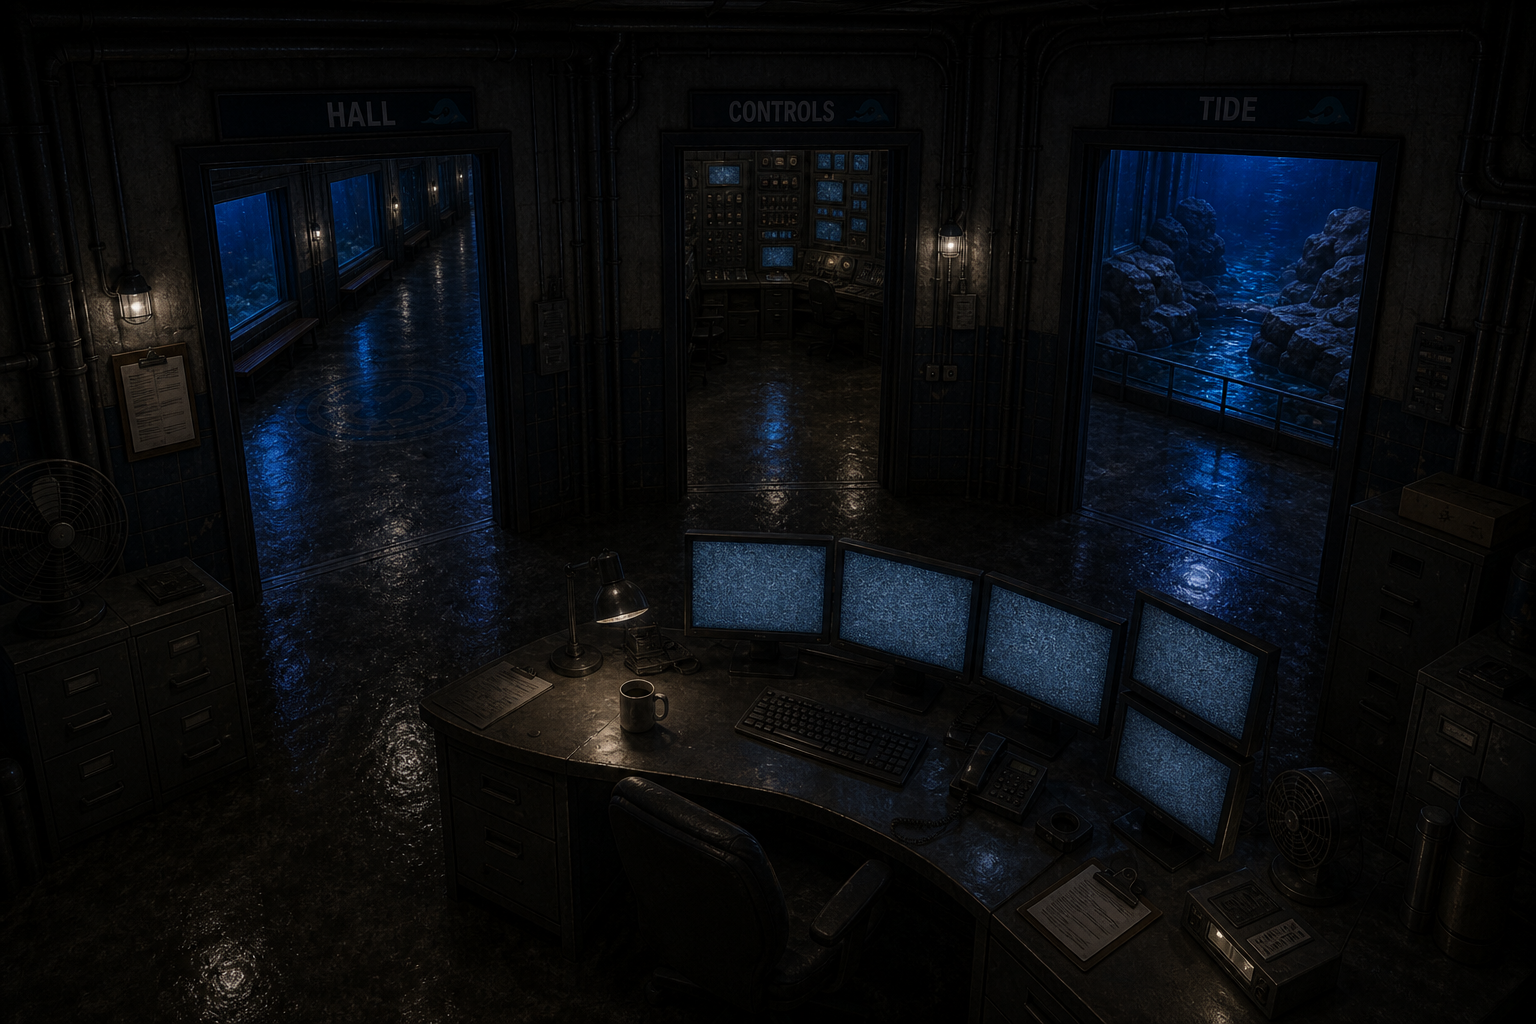
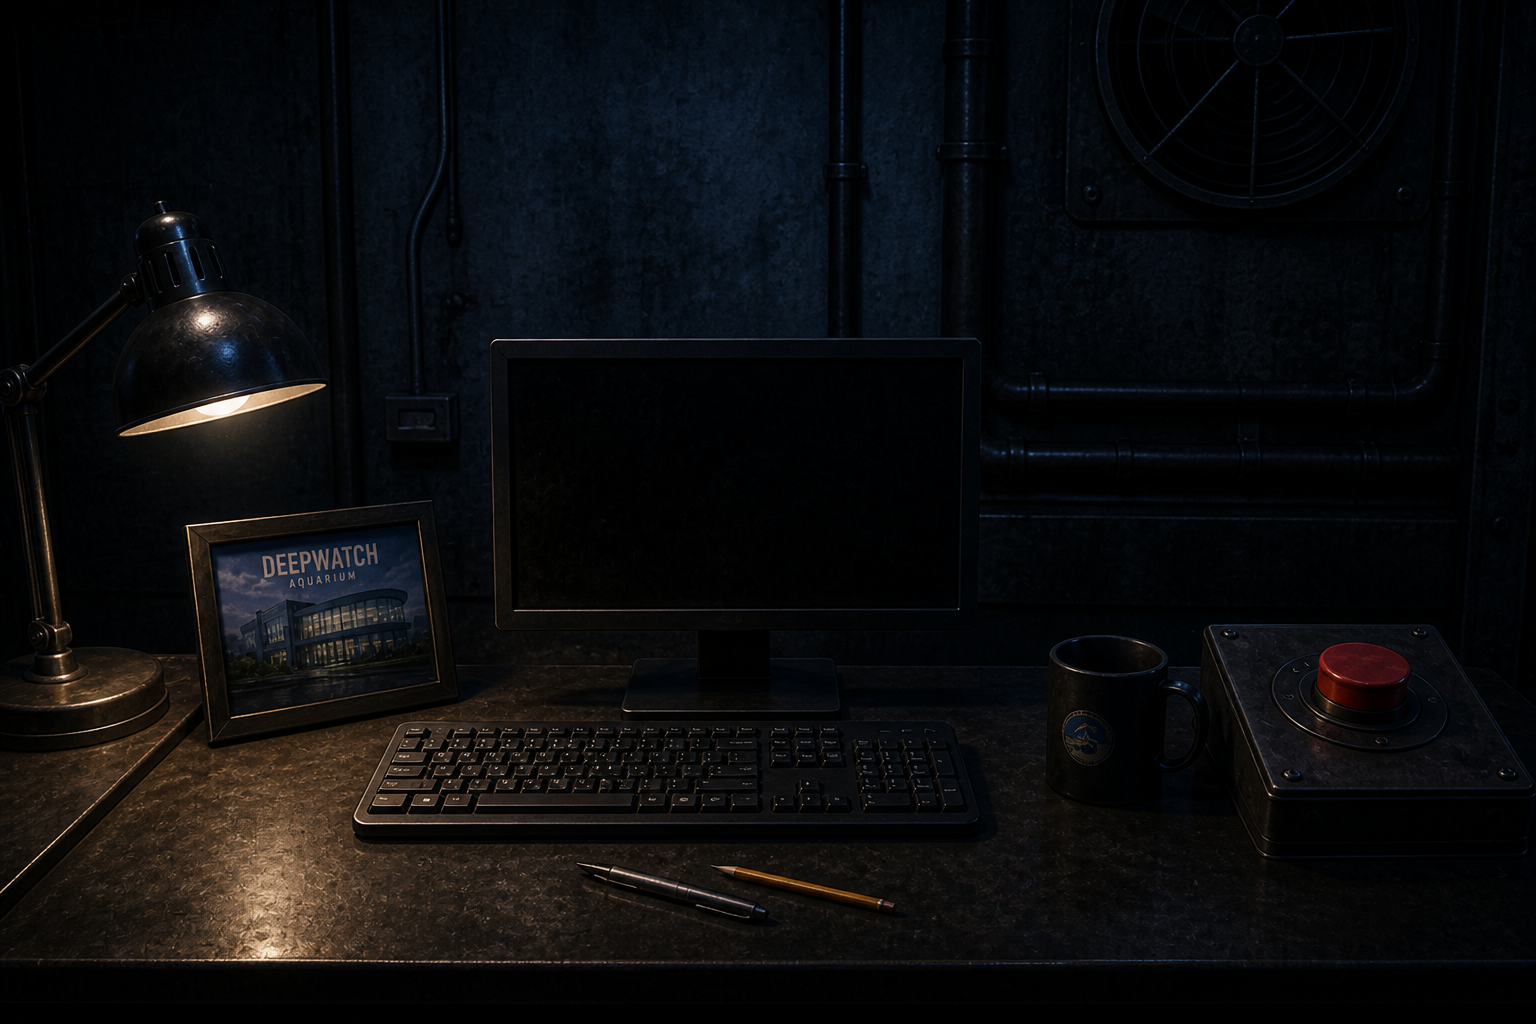
Update office art to FNaF desk view and simplify sound UI.
Replace the office camera image with a first-person desk scene and show only “Playing sound” on the lure button during cooldown.

diff --git a/game.js b/game.js
@@ -7,7 +7,7 @@ const SCREEN_WIDTH = 1000;
 const SCREEN_HEIGHT = 600;
 
 // bump this when you ship an update (matches game.js?v= in index.html)
-const GAME_VERSION = 17;
+const GAME_VERSION = 19;
 
 const TURTLE_MOVE_TIME = 20.0;
 const SHARK_MOVE_TIME = 20.0;
@@ -26,7 +26,9 @@ const NEWSPAPER_SECONDS = 3.0;
 const TWELVE_AM_SECONDS = 2.0;
 // threat in office while you're on cams — animals mess with the controls
 const CAMERA_HIJACK_SECONDS = 20.0;
-const HIJACK_CAM_SWITCH_SECONDS = 3.0;
+// after you pick a cam, hijack waits this long then flips to a random one
+const HIJACK_CAM_SWITCH_MIN = 0.8;
+const HIJACK_CAM_SWITCH_MAX = 2.8;
 const JUMPSCARE_SECONDS = 2.2;
 const NEWSPAPER_TILT = -5;
 const PAPER_GRAY = [228, 226, 220];
@@ -606,6 +608,13 @@ function pickRandomCamera(excludeIndex) {
   return next;
 }
 
+function randomHijackCamDelay() {
+  return (
+    HIJACK_CAM_SWITCH_MIN +
+    Math.random() * (HIJACK_CAM_SWITCH_MAX - HIJACK_CAM_SWITCH_MIN)
+  );
+}
+
 /** Loud FNaF-style scream using Web Audio (no sound file needed). */
 function playJumpscareScream() {
   try {
@@ -1124,8 +1133,8 @@ async function main() {
     if (camerasOpen) {
       mode = "camera_hijack";
       hijackTimer = 0;
-      hijackCamTimer = HIJACK_CAM_SWITCH_SECONDS;
-      currentCam = pickRandomCamera(-1);
+      // keep the cam you're on; shortly flip to a random one
+      hijackCamTimer = randomHijackCamDelay();
     } else {
       startJumpscare();
     }
@@ -1171,17 +1180,13 @@ async function main() {
       if (pointInButton(playAgainButton, mx, my)) {
         mode = "instructions";
       }
-    } else if (mode === "camera_hijack") {
-      const clicked = mapClickToCamera(mx, my, mapRect);
-      if (clicked !== null) {
-        currentCam = pickRandomCamera(clicked);
-        hijackCamTimer = HIJACK_CAM_SWITCH_SECONDS;
+    } else if (mode === "camera_hijack" || (mode === "playing" && camerasOpen)) {
+      if (pointInButton(closeCamsButton, mx, my)) {
+        if (mode === "camera_hijack") startJumpscare();
+        else camerasOpen = false;
       }
-    } else if (mode === "playing") {
-      if (camerasOpen) {
-        if (pointInButton(closeCamsButton, mx, my)) camerasOpen = false;
-        if (pointInButton(mapModeButton, mx, my)) showDrainMap = !showDrainMap;
-        if (pointInButton(soundButton, mx, my) && soundCooldown <= 0) {
+      if (pointInButton(mapModeButton, mx, my)) showDrainMap = !showDrainMap;
+      if (pointInButton(soundButton, mx, my) && soundCooldown <= 0) {
           const target = cameraToRoomName(currentCam);
           let anyoneReacted = false;
           if (target !== null) {
@@ -1275,12 +1280,17 @@ async function main() {
           }
           soundCooldown = SOUND_COOLDOWN;
         }
-        const clicked = mapClickToCamera(mx, my, mapRect);
-        if (clicked !== null) currentCam = clicked;
-      } else {
-        if (pointInButton(drainButton, mx, my)) drainClosed = !drainClosed;
-        if (pointInButton(openCamsButton, mx, my)) camerasOpen = true;
+      const clicked = mapClickToCamera(mx, my, mapRect);
+      if (clicked !== null) {
+        currentCam = clicked;
+        // during hijack: you get the cam you picked, then it flips randomly soon
+        if (mode === "camera_hijack") {
+          hijackCamTimer = randomHijackCamDelay();
+        }
       }
+    } else if (mode === "playing") {
+      if (pointInButton(drainButton, mx, my)) drainClosed = !drainClosed;
+      if (pointInButton(openCamsButton, mx, my)) camerasOpen = true;
     }
   });
 
@@ -1417,10 +1427,15 @@ async function main() {
 
     if (mode === "camera_hijack") {
       hijackTimer += dt;
+      if (glitchTimer > 0) glitchTimer -= dt;
+      if (soundCooldown > 0) soundCooldown -= dt;
+      if (soundFlash > 0) soundFlash -= dt;
+      if (soundIgnoredFlash > 0) soundIgnoredFlash -= dt;
+
       hijackCamTimer -= dt;
       if (hijackCamTimer <= 0) {
         currentCam = pickRandomCamera(currentCam);
-        hijackCamTimer = HIJACK_CAM_SWITCH_SECONDS;
+        hijackCamTimer = randomHijackCamDelay();
       }
 
       if (hijackTimer >= CAMERA_HIJACK_SECONDS) {
@@ -1439,10 +1454,7 @@ async function main() {
 
     drainButton.text = drainClosed ? "OPEN DRAIN" : "CLOSE DRAIN";
     mapModeButton.text = showDrainMap ? "SHOW DOORS" : "SHOW DRAINS";
-    soundButton.text =
-      soundCooldown > 0
-        ? "WAIT " + (Math.floor(soundCooldown) + 1) + "s"
-        : "PLAY SOUND";
+    soundButton.text = soundCooldown > 0 ? "Playing sound" : "PLAY SOUND";
 
     ctx.fillStyle = "rgb(15,20,30)";
     ctx.fillRect(0, 0, SCREEN_WIDTH, SCREEN_HEIGHT);
@@ -1499,23 +1511,9 @@ async function main() {
       ctx.fillText("Click PLAY AGAIN to start over.", SCREEN_WIDTH / 2, 320);
       ctx.textAlign = "left";
       drawButton(playAgainButton, { selected: true });
-    } else if (mode === "camera_hijack") {
-      drawDarkImage(ctx, cameraImages[currentCam], 0, 0, SCREEN_WIDTH, SCREEN_HEIGHT);
-      drawMap(
-        mapRect,
-        currentCam,
-        sharkRoom,
-        showDrainMap,
-        sharkPull,
-        sharkThreatImage,
-        rayRoom,
-        rayPull,
-        rayThreatImage,
-      );
-      drawClock(nightHours, 20, 45);
     } else if (mode === "jumpscare") {
       drawFnafJumpscare(threatImageFor(hijackAnimal), jumpscareTimer);
-    } else if (mode === "playing" && camerasOpen) {
+    } else if (mode === "camera_hijack" || (mode === "playing" && camerasOpen)) {
       drawDarkImage(ctx, cameraImages[currentCam], 0, 0, SCREEN_WIDTH, SCREEN_HEIGHT);
 
       // always show which camera you're on (easy to check Cafe art)
@@ -1655,18 +1653,9 @@ async function main() {
       drawButton(mapModeButton, { selected: showDrainMap, transparent: true });
       drawButton(soundButton, {
         selected: soundFlash > 0,
-        danger: soundCooldown > 0 || soundIgnoredFlash > 0,
+        danger: soundCooldown > 0,
         transparent: true,
       });
-      if (soundFlash > 0) {
-        ctx.fillStyle = "rgb(255,230,80)";
-        ctx.font = "bold 36px sans-serif";
-        ctx.fillText("SOUND!", 20, 520);
-      } else if (soundIgnoredFlash > 0) {
-        ctx.fillStyle = "rgb(220,140,140)";
-        ctx.font = "bold 28px sans-serif";
-        ctx.fillText("IGNORED...", 20, 520);
-      }
       drawButton(closeCamsButton, { transparent: true });
       drawClock(nightHours, 20, 45);
     } else if (mode === "playing") {

diff --git a/index.html b/index.html
@@ -14,6 +14,6 @@
       <a href="newspaper-research.html">Newspaper research</a>
     </p>
   </main>
-  <script src="game.js?v=17"></script>
+  <script src="game.js?v=19"></script>
 </body>
 </html>

diff --git a/image-prompts.md b/image-prompts.md
@@ -148,8 +148,10 @@ A DIM, HIGH-ANGLE SECURITY-CAMERA VIEW OVERLOOKING A GRITTY AQUARIUM DEEP TANK E
 
 ---
 
-## Office — `office.png` ✅
+## Office — `office.png` ✅ (regenerated — FNaF-style desk-only view)
+
+**Note:** First-person sitting at the desk. Close desk view only — do NOT show doorways or other rooms. Desk must include: computer, pen, pencil, Deepwatch picture, and a red button.
 
 ```
-A DIM, HIGH-ANGLE SECURITY-CAMERA VIEW OVERLOOKING A GRITTY AQUARIUM NIGHT GUARD OFFICE. THE CAMERA IS INSIDE THE OFFICE, LOOKING OUT THROUGH THREE OPEN DOORWAYS. THE LEFT DOORWAY LEADS TO THE "HALL," THE CENTER DOORWAY LEADS TO THE "CONTROLS" ROOM, AND THE RIGHT DOORWAY LEADS TO THE "TIDE" EXHIBIT. THE THREE DOORWAYS MUST BE CLEARLY ARRANGED LEFT TO RIGHT AS HALL — CONTROLS — TIDE. THE OFFICE ITSELF FILLS THE FOREGROUND AND CONTAINS A NIGHT GUARD DESK WITH MULTIPLE SECURITY MONITORS SHOWING BLANK OR STATIC SCREENS ONLY — NO ANIMALS ON THE SCREENS, A DESK LAMP, OFFICE CHAIR, FILE CABINETS, CLIPBOARDS, COFFEE MUG, FAN, EXPOSED PIPES, AND WET REFLECTIVE FLOORING. THE HALL ON THE LEFT IS A DARK, LONG AQUARIUM CORRIDOR WITH REFLECTIVE FLOORING. THE CONTROLS ROOM IN THE CENTER HAS ELECTRICAL PANELS, MONITORS, SWITCHES, AND CONTROL EQUIPMENT. THE TIDE ROOM ON THE RIGHT HAS ROCKY TIDE POOL FORMATIONS AND BLUE UNDERWATER LIGHTING BUT NO ANIMALS. WET REFLECTIVE FLOORING, DARK BLUE-GRAY LIGHTING, ATMOSPHERIC AQUARIUM DESIGN, REALISTIC ENVIRONMENT, NO PEOPLE, NO LIVE ANIMALS, NO FISH, NO SEA CREATURES ANYWHERE IN THE SCENE, EMPTY TANKS AND EXHIBITS WITH CORAL AND PLANTS ONLY, NO UI, NO HUD, NO CAMERA OVERLAY.
+FIRST-PERSON POINT OF VIEW SITTING AT A NIGHT GUARD DESK IN A DARK ENCLOSED OFFICE, FIVE NIGHTS AT FREDDY STYLE. YOU ARE LOOKING STRAIGHT AT THE DESK FROM THE CHAIR — CLOSE-UP DESK VIEW ONLY. DO NOT SHOW ANY DOORWAYS, HALLWAYS, OR OTHER ROOMS. DO NOT SHOW HALL, CONTROLS, TIDE, OR ANY LABELED EXITS. THE BACKGROUND IS JUST THE DARK OFFICE WALL BEHIND THE DESK — SOLID WALL, PIPES, MAYBE A FAN OR POSTER, NOTHING ELSE VISIBLE BEYOND THE OFFICE. THE DESK FILLS MOST OF THE FRAME AND HOLDS: ONE COMPUTER MONITOR AND KEYBOARD, A PEN AND A PENCIL, A FRAMED PICTURE OF DEEPWATCH AQUARIUM CLEARLY LABELED DEEPWATCH, AND A LARGE PROMINENT RED BUTTON. ALSO A DESK LAMP AND A COFFEE MUG. DARK BLUE-GRAY LIGHTING, GRITTY AQUARIUM NIGHT GUARD OFFICE, REALISTIC ENVIRONMENT, NO PEOPLE, NO LIVE ANIMALS, NO FISH, NO SEA CREATURES, NO UI, NO HUD, NO CAMERA OVERLAY.
 ```
